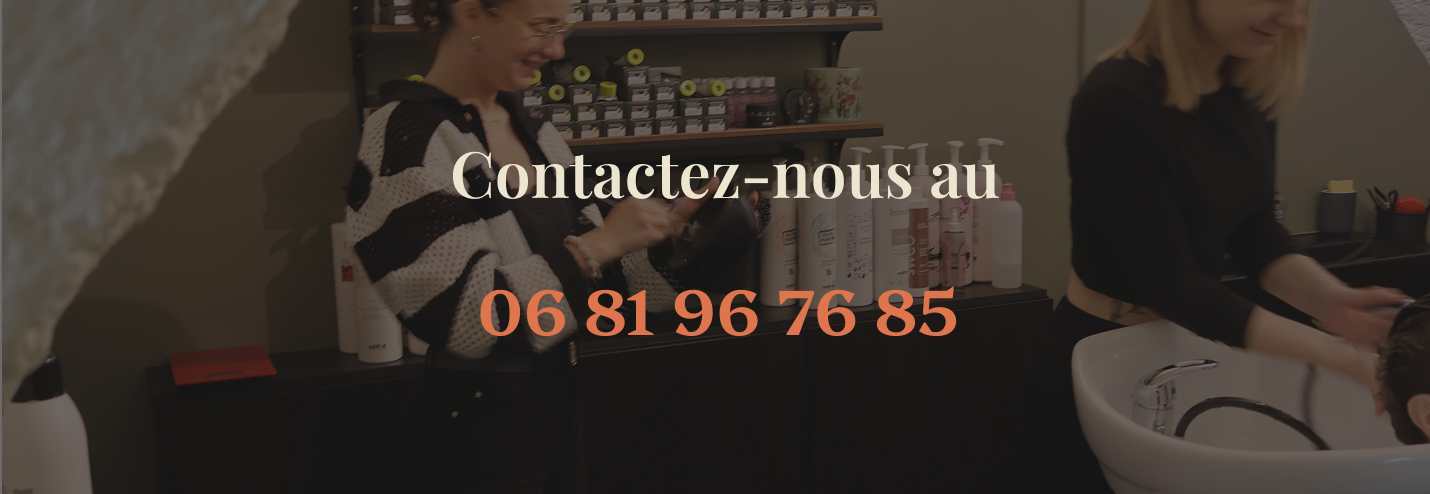
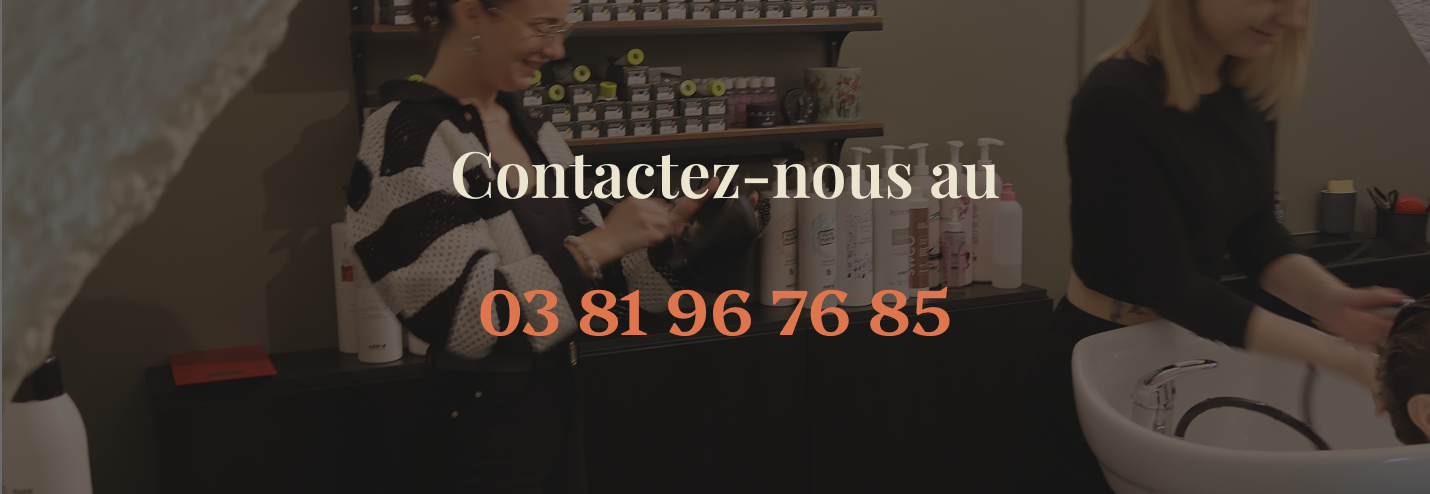
Add files via upload

Changed region(s): [[0.3692, 0.5769, 0.6769, 0.6984]]

diff --git a/galerie.html b/galerie.html
@@ -12,7 +12,7 @@
          <nav>
                 <ul class="onglets">
                     <li><a href="index.html">Accueil</a></li>
-                    <li><a href="prestation.html">Prestation</a></li>
+                    <li><a href="prestation.html">Prestations</a></li>
                     <li><a href="nosproduits.html">Nos produits</a></li>
                     <li><a href="galerie.html">Galerie</a></li>
                 </ul>
@@ -27,7 +27,7 @@
 
     <footer>
         <div>
-            <h1>Rejoignez-nous sur nos compte </h1>
+            <h1>Rejoignez-nous sur nos comptes </h1>
         </div>
 
         <div class="logo">

diff --git a/index.html b/index.html
@@ -12,7 +12,7 @@
          <nav>
                 <ul>
                     <li><a href="index.html">Accueil</a></li>
-                    <li><a href="prestation.html">Prestation</a></li>
+                    <li><a href="prestation.html">Prestations</a></li>
                     <li><a href="nosproduits.html">Nos produits</a></li>
                     <li><a href="galerie.html">Galerie</a></li>
                 </ul>
@@ -33,7 +33,7 @@
        
     <footer>
          <div>
-            <h1>Rejoignez-nous sur nos compte </h1>
+            <h1>Rejoignez-nous sur nos comptes </h1>
         </div>
 
         <div class="logo">

diff --git a/nosproduits.html b/nosproduits.html
@@ -12,7 +12,7 @@
          <nav>
                 <ul class="onglets">
                     <li><a href="index.html">Accueil</a></li>
-                    <li><a href="prestation.html">Prestation</a></li>
+                    <li><a href="prestation.html">Prestations</a></li>
                     <li><a href="nosproduits.html">Nos produits</a></li>
                     <li><a href="galerie.html">Galerie</a></li>
                 </ul>
@@ -106,7 +106,7 @@
     </section>
     <footer>
          <div>
-            <h1>Rejoignez-nous sur nos compte </h1>
+            <h1>Rejoignez-nous sur nos comptes </h1>
         </div>
 
         <div class="logo">

diff --git a/prestation.html b/prestation.html
@@ -12,7 +12,7 @@
          <nav>
                 <ul class="onglets">
                     <li><a href="index.html">Accueil</a></li>
-                    <li><a href="prestation.html">Prestation</a></li>
+                    <li><a href="prestation.html">Prestations</a></li>
                     <li><a href="nosproduits.html">Nos produits</a></li>
                     <li><a href="galerie.html">Galerie</a></li>
                 </ul>
@@ -88,7 +88,7 @@
 
     <footer>
          <div>
-            <h1>Rejoignez-nous sur nos compte </h1>
+            <h1>Rejoignez-nous sur nos comptes </h1>
         </div>
 
         <div class="logo">